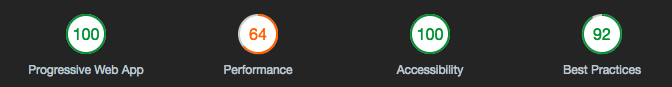
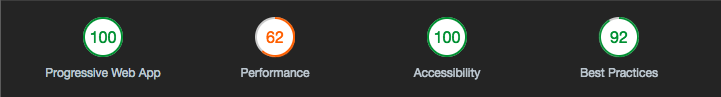
enabled polyfills for older browsers

diff --git a/src/polyfills.ts b/src/polyfills.ts
@@ -19,23 +19,23 @@
  */
 
 /** IE9, IE10 and IE11 requires all of the following polyfills. **/
-// import 'core-js/es6/symbol';
-// import 'core-js/es6/object';
-// import 'core-js/es6/function';
-// import 'core-js/es6/parse-int';
-// import 'core-js/es6/parse-float';
-// import 'core-js/es6/number';
-// import 'core-js/es6/math';
-// import 'core-js/es6/string';
-// import 'core-js/es6/date';
-// import 'core-js/es6/array';
-// import 'core-js/es6/regexp';
-// import 'core-js/es6/map';
-// import 'core-js/es6/weak-map';
-// import 'core-js/es6/set';
+import 'core-js/es6/symbol';
+import 'core-js/es6/object';
+import 'core-js/es6/function';
+import 'core-js/es6/parse-int';
+import 'core-js/es6/parse-float';
+import 'core-js/es6/number';
+import 'core-js/es6/math';
+import 'core-js/es6/string';
+import 'core-js/es6/date';
+import 'core-js/es6/array';
+import 'core-js/es6/regexp';
+import 'core-js/es6/map';
+import 'core-js/es6/weak-map';
+import 'core-js/es6/set';
 
 /** IE10 and IE11 requires the following for NgClass support on SVG elements */
-// import 'classlist.js';  // Run `npm install --save classlist.js`.
+import 'classlist.js';  // Run `npm install --save classlist.js`.
 
 /** Evergreen browsers require these. **/
 import 'core-js/es6/reflect';
@@ -46,7 +46,7 @@ import 'core-js/es7/reflect';
  * Required to support Web Animations `@angular/platform-browser/animations`.
  * Needed for: All but Chrome, Firefox and Opera. http://caniuse.com/#feat=web-animation
  **/
-// import 'web-animations-js';  // Run `npm install --save web-animations-js`.
+import 'web-animations-js';  // Run `npm install --save web-animations-js`.
 
 
 
@@ -65,8 +65,8 @@ import 'zone.js/dist/zone';  // Included with Angular CLI.
  * Date, currency, decimal and percent pipes.
  * Needed for: All but Chrome, Firefox, Edge, IE11 and Safari 10
  */
-// import 'intl';  // Run `npm install --save intl`.
+import 'intl';  // Run `npm install --save intl`.
 /**
  * Need to import at least one locale-data with intl.
  */
-// import 'intl/locale-data/jsonp/en';
+import 'intl/locale-data/jsonp/en';
